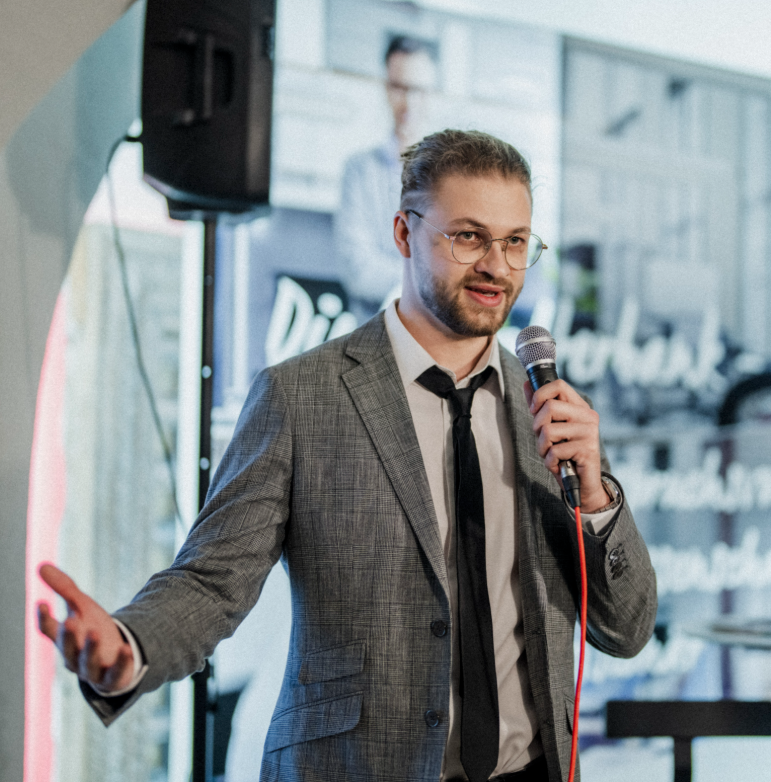
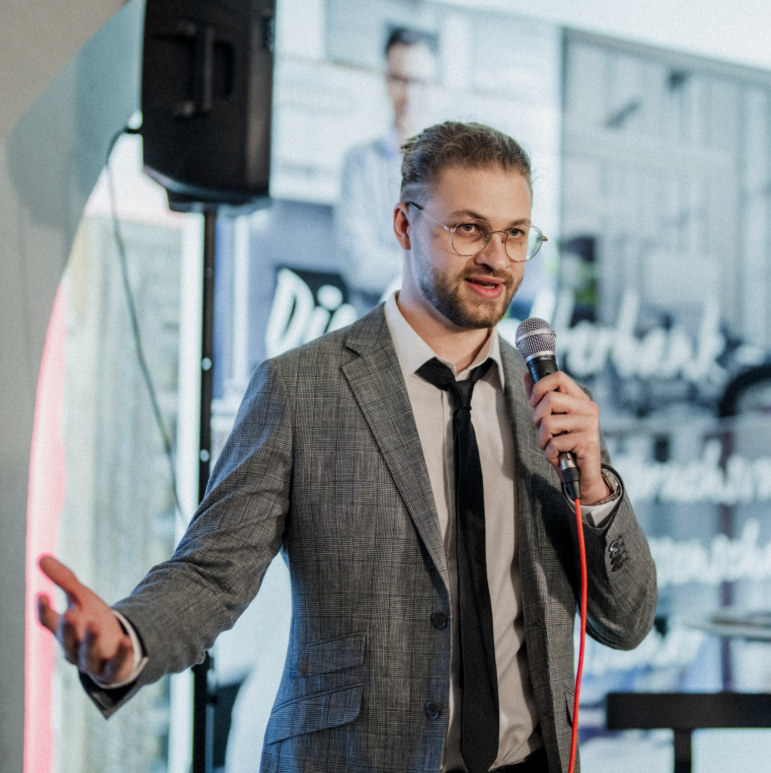
minor fixes

diff --git a/styles/styles.css b/styles/styles.css
@@ -444,7 +444,7 @@ section {
 }
 
 .section-middle {
-  padding-top: 5%;
+  padding-top: 4%;
 }
 
 .profile-pic {
@@ -1809,6 +1809,10 @@ a:hover {
     margin-top: 90px !important;
   }
 
+  .section-middle {
+    margin-bottom: 10%;
+  }
+
   .logo {
     width: 80%;
     height: auto;
@@ -1824,7 +1828,6 @@ a:hover {
 
   .hover-box {
     height: auto;
-    padding: 1rem;
   }
 
   .hover-box-header {
@@ -1859,24 +1862,28 @@ a:hover {
 
   .about-profile {
     margin-top: 5vh;
-    gap: 2em;
+    gap: 0.5em;
     display: grid;
-    grid-template-columns: 1fr 1fr;
-    grid-template-rows: 1fr 2fr;
+    grid-template-columns: 2fr 1fr;
+    grid-template-rows: auto;
   }
 
   .profile-pic {
     height: auto;
-    width: auto;
+    width: 90%;
     grid-row: 1;
   }
 
+  .profile-title {
+    align-self: baseline;
+  }
+
   .profile-name {
-    font-size: 1rem;
+    font-size: 1.1rem;
   }
 
   .box-textcontent {
-    font-size: 0.9rem;
+    font-size: 1rem;
   }
 
   .genome-hero-3 {
@@ -1889,8 +1896,9 @@ a:hover {
     justify-self: center;
   }
 
-  .story-main-end .about-story {
+  .about-story {
     width: 90%;
+    margin: auto;
   }
 
   .footer-section {

diff --git a/styles/index.css b/styles/index.css
@@ -14,7 +14,7 @@
         flex-direction: column;
         height: auto;
         margin-top: 5vh;
-        gap: 2rem;
+        gap: 1rem;
     }
 }
 
@@ -174,7 +174,7 @@
 
     .landing-cards {
         grid-template-columns: 1fr;
-        gap: 2rem;
+        gap: 1rem;
         height: auto;
     }
 }
@@ -184,6 +184,12 @@
     flex-direction: column;
     justify-content: space-between;
     gap: 30px;
+}
+
+@media (max-width: 768px) {
+    .landing-purpose {
+        gap: 1em;
+    }
 }
 
 .purpose {
@@ -386,7 +392,7 @@
 @media (max-width: 768px) {
     .project-cards {
         grid-template-columns: 1fr;
-        gap: 2rem;
+        gap: 1rem;
     }
 }
 

diff --git a/about.html b/about.html
@@ -142,7 +142,7 @@
         </div>
     </section>
 
-    <section class="section-middle" style="padding: 15%;">
+    <section class="section-middle">
         <div class="fade-in-element about-profile" data-animation-class="is-visible" data-delay="0.2s">
             <div class="profile-title">
                 <div class="profile-name">
